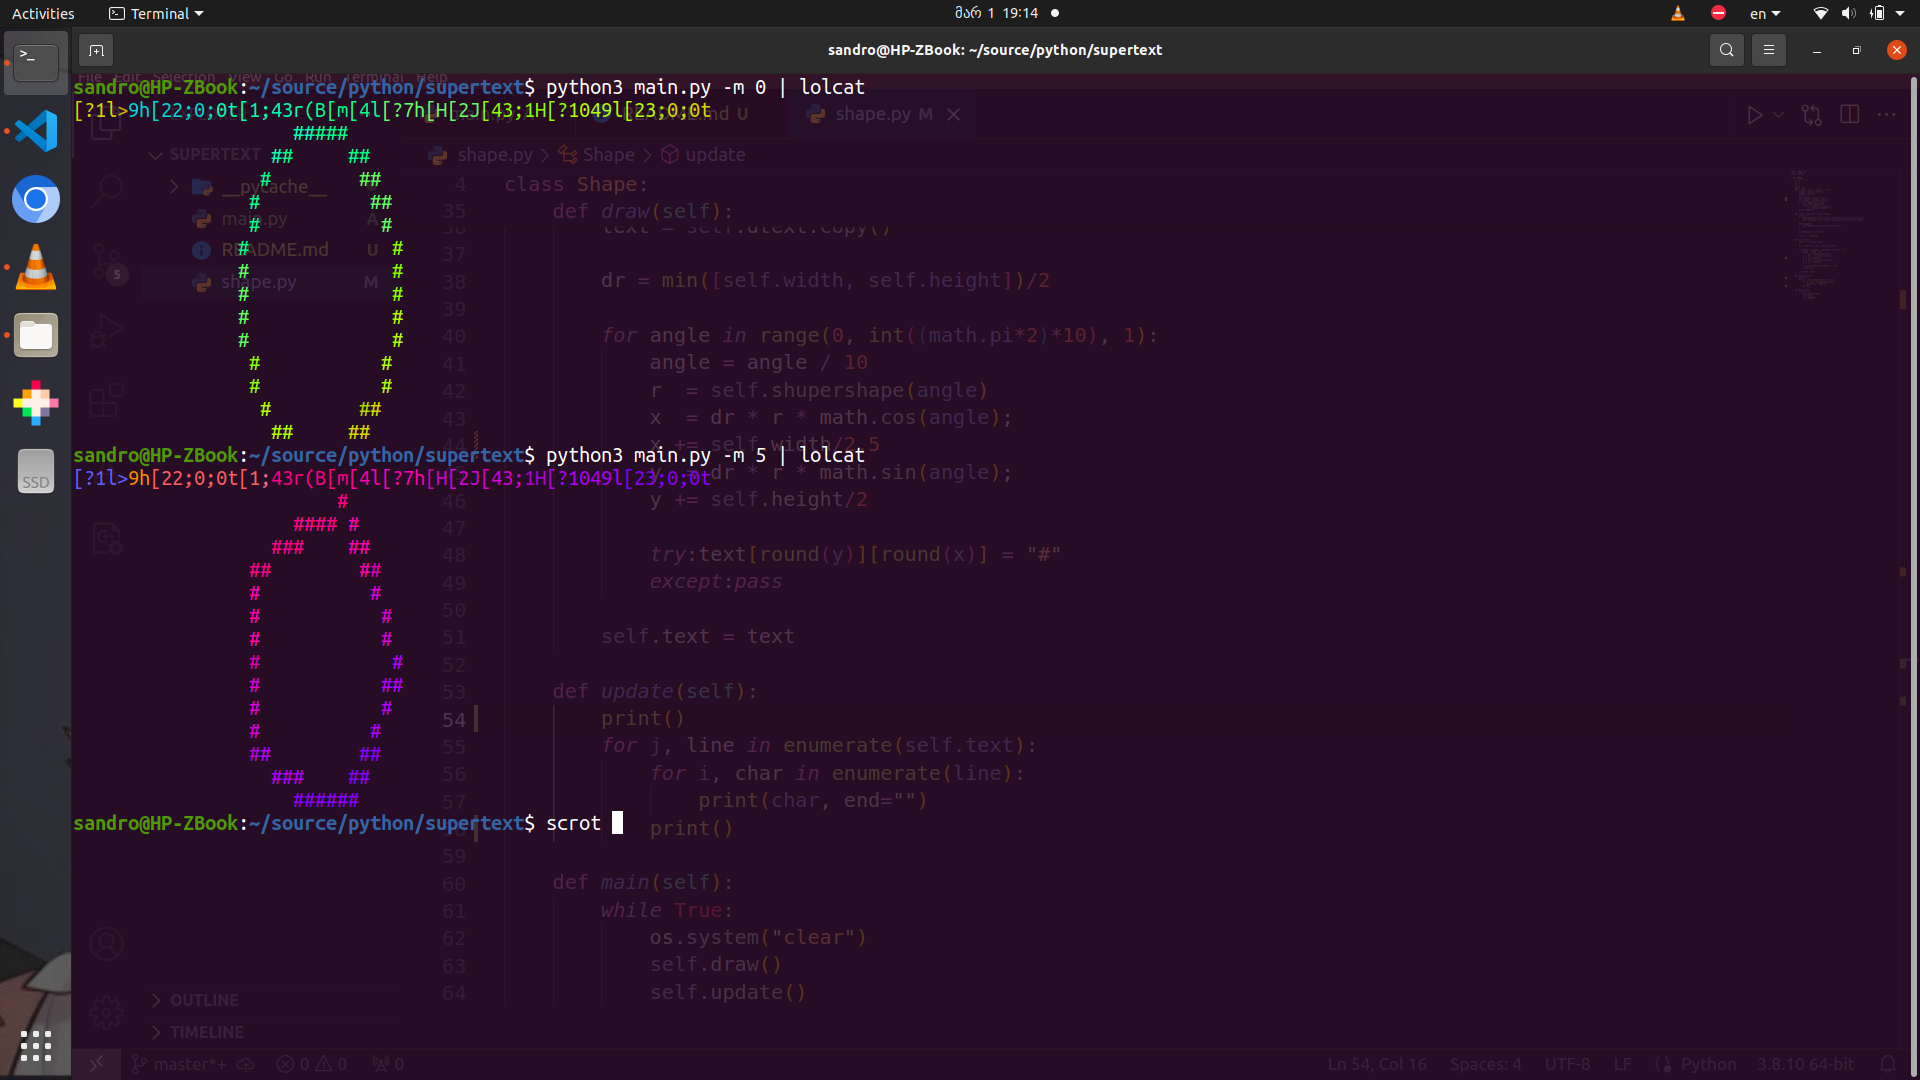
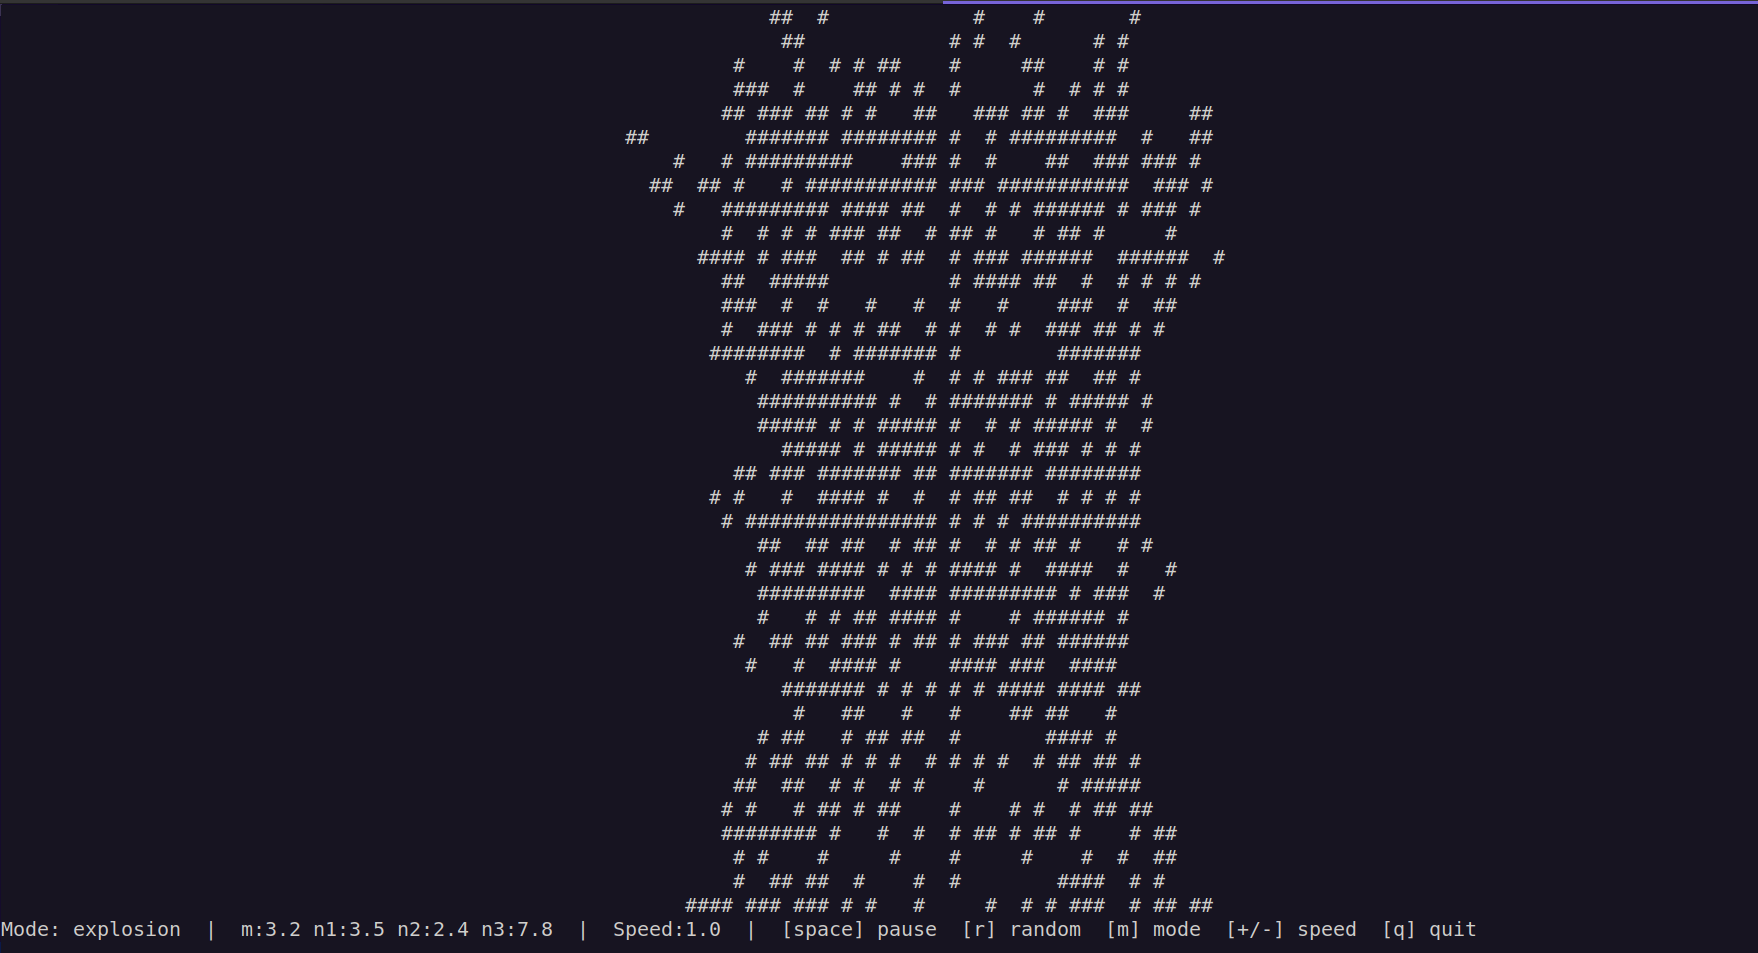
updated python version

diff --git a/main.py b/main.py
@@ -1,20 +1,190 @@
-from shape import Shape
-import sys, random
+#!/usr/bin/env python3
+import math
+import curses
+import sys
+import random
+import time
 
-try:
-    index = sys.argv.index("-m")+1
-    if index == len(sys.argv):
-        print("-m [value -> float]")
-        sys.exit()
-    m = sys.argv[index]
-    m = float(m)
-except:
-    m = random.randint(0, 10)
+def supershape(theta, m, n1, n2, n3, a=1.0, b=1.0):
+    cos_part = math.pow(abs((1.0 / a) * math.cos(theta * m / 4.0)), n1)
+    sin_part = math.pow(abs((1.0 / b) * math.sin(theta * m / 4.0)), n2)
+    r = math.pow(cos_part + sin_part, -1.0 / n3)
+    return r if r else 0.0
 
-shape = Shape(m)
+def generate_supershape_surface(theta_vals, phi_vals, params, time, mode, rot_y):
+    m0 = params['m']
+    n1_0 = params['n1']
+    n2_0 = params['n2']
+    n3_0 = params['n3']
+    a0 = params['a']
+    b0 = params['b']
+    scale = params['scale']
+    height_scale = params['height']
 
-shape.draw()
+    wave1 = math.sin(time * 0.3) * 0.8
+    wave2 = math.cos(time * 0.2) * 0.6
+    wave3 = math.sin(time * 0.25 + 1.0) * 0.5
 
-shape.update()
+    m = max(0.5, m0 + wave1 * 0.6)
+    n1 = max(0.1, n1_0 + wave2 * 0.4)
+    n2 = max(0.1, n2_0 + wave3 * 0.4)
+    n3 = max(0.1, n3_0 + math.sin(time * 0.15) * 0.3)
+    a = max(0.1, a0 + math.sin(time * 0.1) * 0.1)
+    b = max(0.1, b0 + math.cos(time * 0.12) * 0.1)
 
-# curses.endwin()
+    points = []
+    for theta in theta_vals:
+        r = supershape(theta, m, n1, n2, n3, a, b)
+        y_base = (theta / (2.0 * math.pi) - 0.5) * 2.0 * height_scale * 1.2
+        for phi in phi_vals:
+            x = r * math.cos(phi) * scale
+            y = y_base
+            z = r * math.sin(phi) * scale
+
+            if mode == 'liquid':
+                amp = 0.15 + 0.1 * math.sin(time * 0.5)
+                wave = math.sin(theta * 5 + time * 1.5) * math.cos(phi * 3 + time * 1.2) * amp
+                factor = 1.0 + wave
+                x *= factor
+                z *= factor
+                y *= (1.0 + 0.1 * math.sin(theta * 4 + time * 1.8))
+
+            elif mode == 'explosion':
+                pulse = 0.5 + 0.5 * math.sin(time * 0.8)
+                exp_amp = 0.8 + 0.6 * math.sin(time * 1.2)
+                radius = math.sqrt(x*x + y*y + z*z) or 0.001
+                noise = math.sin(theta * 7 + time * 3) * math.cos(phi * 5 + time * 2.5)
+                factor = 1.0 + 0.4 * noise * pulse
+                s = 1.0 + exp_amp * 0.5 * (0.5 + 0.5 * math.sin(theta * 3 + time * 2))
+                x *= factor * s
+                y *= factor * s
+                z *= factor * s
+
+            elif mode == 'pulse':
+                pulse_scale = 0.7 + 0.3 * math.sin(time * 1.2)
+                x *= pulse_scale
+                y *= pulse_scale
+                z *= pulse_scale
+
+            if rot_y != 0:
+                c = math.cos(rot_y)
+                s = math.sin(rot_y)
+                x, z = x * c - z * s, x * s + z * c
+
+            points.append((x, y, z))
+
+    return points
+
+def project_points(points, screen_width, screen_height, cx, cy, scale_2d):
+    projected = []
+    for (x, y, z) in points:
+        px = int(cx + x * scale_2d)
+        py = int(cy - y * scale_2d)
+        if 0 <= px < screen_width and 0 <= py < screen_height:
+            projected.append((px, py, z))
+        else:
+            projected.append(None)
+    return projected
+
+def draw_shape(window, projected_points):
+    window.clear()
+    for proj in projected_points:
+        if proj is None:
+            continue
+        px, py, z = proj
+        if z > 0:
+            try:
+                window.addch(py, px, '#')
+            except curses.error:
+                pass
+
+def main(stdscr):
+    try:
+        idx = sys.argv.index("-m") + 1
+        m_val = float(sys.argv[idx]) if idx < len(sys.argv) else random.uniform(0.5, 10)
+    except:
+        m_val = random.uniform(0.5, 10)
+
+    curses.curs_set(0)
+    stdscr.nodelay(1)
+    stdscr.timeout(50)
+
+    height, width = stdscr.getmaxyx()
+    shape_height = height - 2
+    shape_width = width
+
+    params = {
+        'm': m_val,
+        'n1': 1.0,
+        'n2': 1.0,
+        'n3': 1.0,
+        'a': 1.0,
+        'b': 1.0,
+        'scale': 0.8 * min(shape_width, shape_height) / 40,
+        'height': 1.0,
+    }
+
+    mode = 'morph'
+    paused = False
+    rot_y = 0.0
+    speed = 1.0
+    time_accum = 0.0
+
+    num_theta = 60
+    num_phi = 40
+    theta_vals = [i / num_theta * 2 * math.pi for i in range(num_theta)]
+    phi_vals = [j / num_phi * 2 * math.pi for j in range(num_phi)]
+
+    clock = time.time()
+    while True:
+        key = stdscr.getch()
+        if key == ord('q') or key == ord('Q'):
+            break
+        elif key == ord(' '):
+            paused = not paused
+        elif key == ord('r') or key == ord('R'):
+            params['m'] = random.uniform(0.5, 20)
+            params['n1'] = random.uniform(0.1, 10)
+            params['n2'] = random.uniform(0.1, 10)
+            params['n3'] = random.uniform(0.1, 10)
+            params['a'] = random.uniform(0.1, 5)
+            params['b'] = random.uniform(0.1, 5)
+            params['scale'] = 0.8 * min(shape_width, shape_height) / 40 * random.uniform(0.7, 1.3)
+        elif key == ord('m'):
+            modes = ['morph', 'liquid', 'explosion', 'pulse']
+            idx = (modes.index(mode) + 1) % len(modes)
+            mode = modes[idx]
+        elif key == ord('+') or key == ord('='):
+            speed = min(2.0, speed + 0.1)
+        elif key == ord('-'):
+            speed = max(0.1, speed - 0.1)
+
+        if not paused:
+            now = time.time()
+            dt = (now - clock) * speed
+            clock = now
+            time_accum += dt
+            rot_y += dt * 0.5
+
+        points3d = generate_supershape_surface(
+            theta_vals, phi_vals, params, time_accum, mode, rot_y
+        )
+
+        cx = shape_width // 2
+        cy = shape_height // 2
+        screen_scale = min(shape_width, shape_height) * 0.35
+        projected = project_points(points3d, shape_width, shape_height, cx, cy, screen_scale)
+
+        draw_shape(stdscr, projected)
+
+        info = f"Mode: {mode}  |  m:{params['m']:.1f} n1:{params['n1']:.1f} n2:{params['n2']:.1f} n3:{params['n3']:.1f}  |  Speed:{speed:.1f}  |  [space] pause  [r] random  [m] mode  [+/-] speed  [q] quit"
+        try:
+            stdscr.addstr(shape_height, 0, info[:width-1])
+        except curses.error:
+            pass
+
+        stdscr.refresh()
+        time.sleep(0.02)
+
+if __name__ == "__main__":
+    curses.wrapper(main)